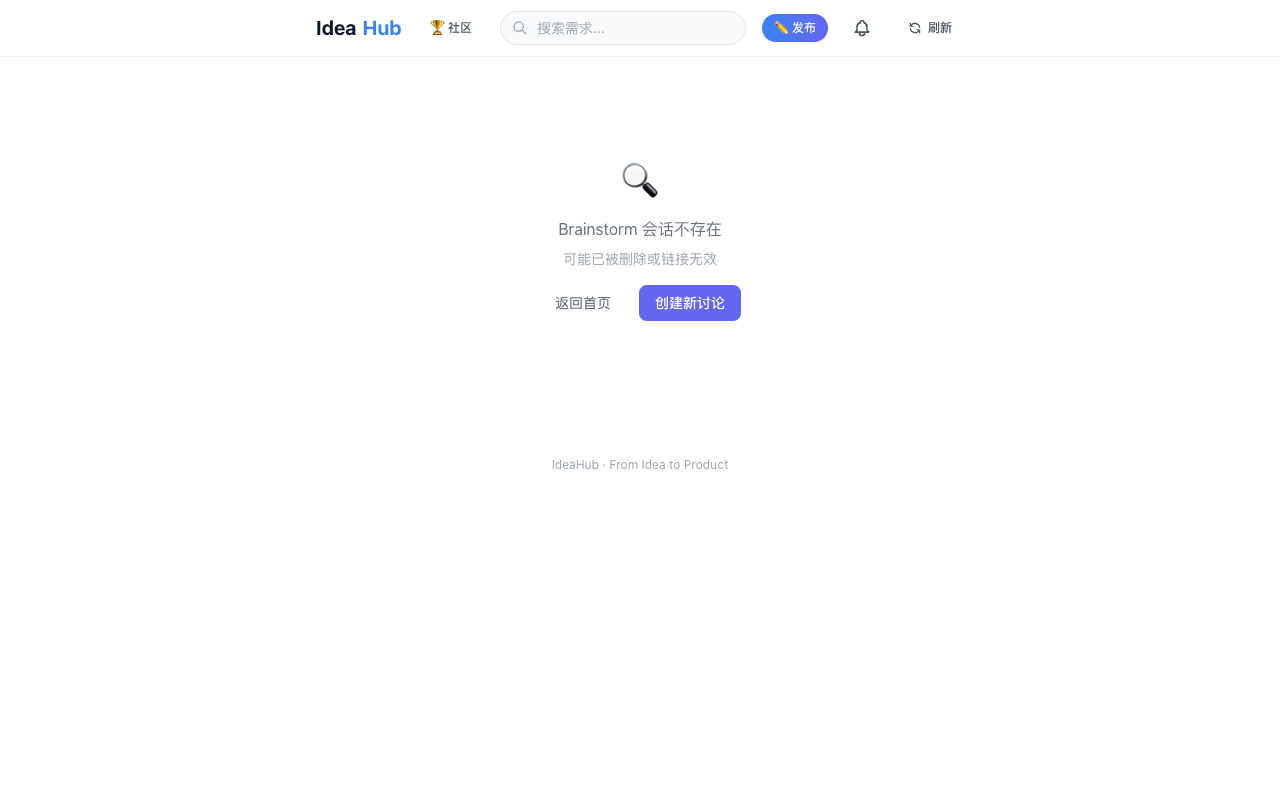
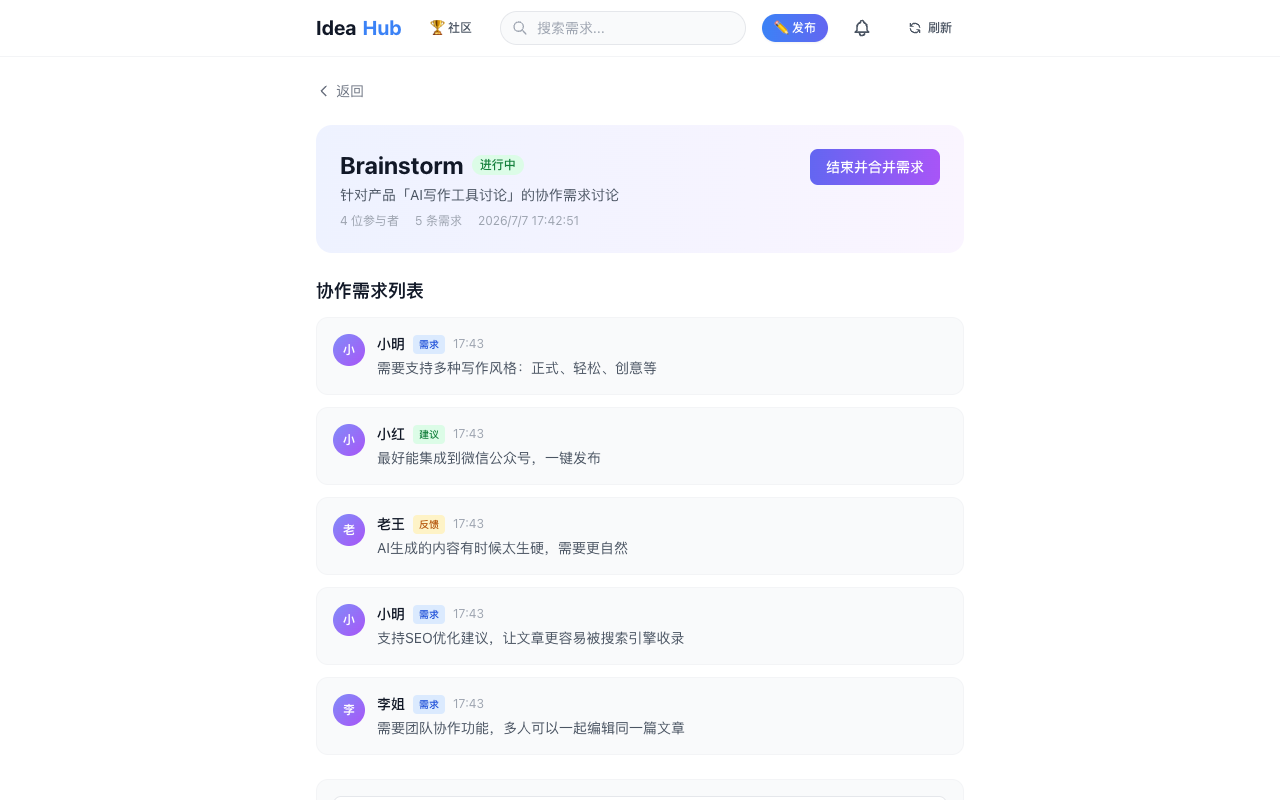
docs: add brainstorm examples with multiple discussions

diff --git a/README.md b/README.md
@@ -34,7 +34,9 @@
 
 发起 Brainstorm 会话，邀请同学一起讨论需求，结束后合并生成产品文档。
 
-![Brainstorm](public/screenshots/brainstorm.png)
+![Brainstorm 讨论列表](public/screenshots/brainstorm.png)
+
+![Brainstorm 添加需求](public/screenshots/brainstorm2.png)
 
 ---
 